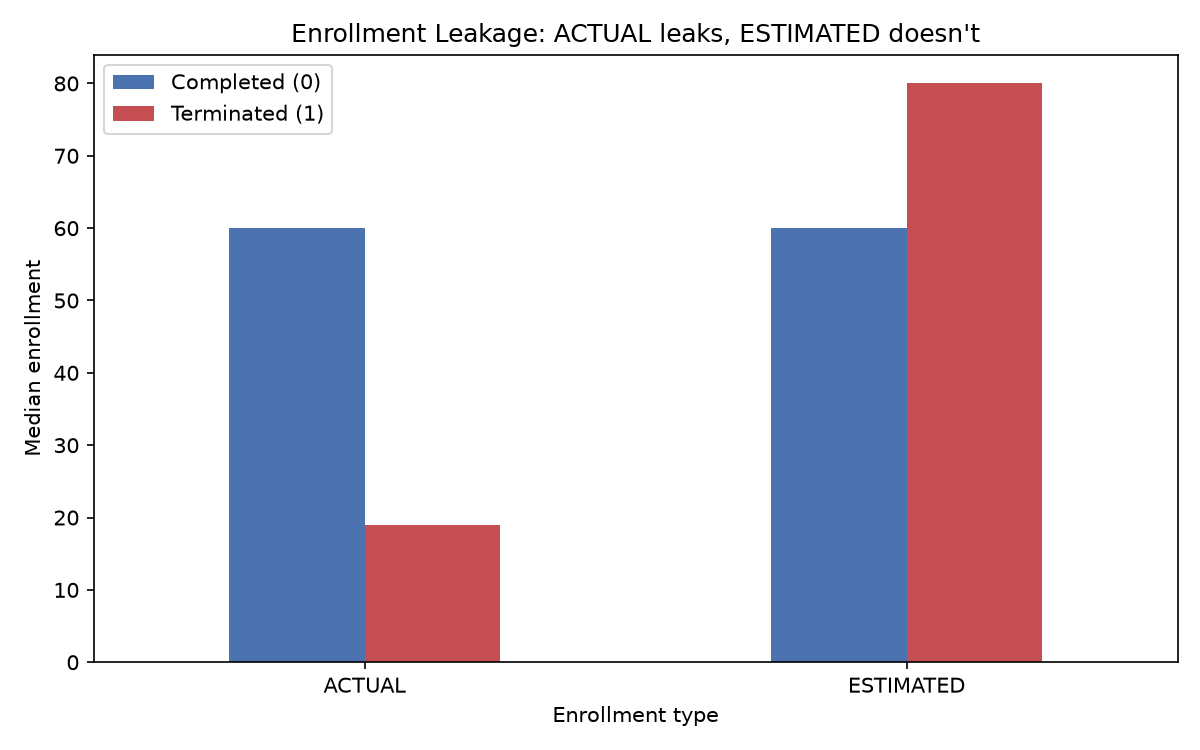
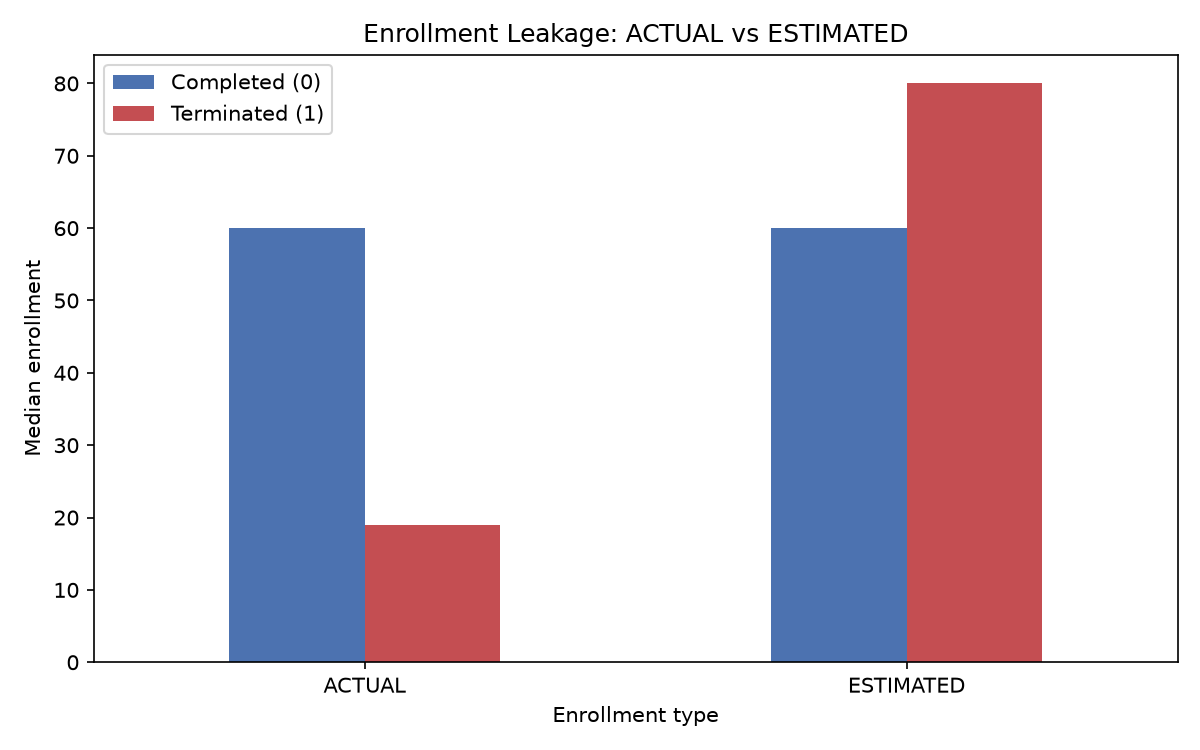
Update README and enrollment leakage chart

Changed region(s): [[0.2467, 0.0307, 0.8325, 0.0613]]

diff --git a/README.md b/README.md
@@ -37,7 +37,7 @@ This project predicts early termination from registration-time features alone.
 
 ---
 
-## Label leakage - the core of the project
+## Feature leakage
 
 Several fields are only populated because a trial terminated, so using them gives an
 unrealistically high AUC and a useless model. The rule: **a feature is legitimate only if
